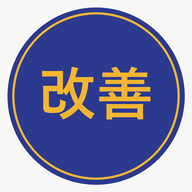
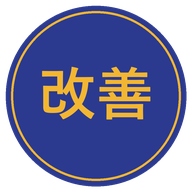
Ícone com fundo transparente de verdade
O favicon tinha os cantos opacos (cor de papel), o que aparecia como fundo branco na aba.
Agora o círculo é recortado com transparência, e o endereço ganha ?v=2 pra furar o cache.

Changed region(s): [[0.0, 0.0, 1.0, 1.0]]

diff --git a/index.html b/index.html
@@ -76,8 +76,8 @@
     }
     </script>
 
-    <link rel="icon" href="img/icone-192.png">
-    <link rel="apple-touch-icon" href="img/apple-touch-icon.png">
+    <link rel="icon" type="image/png" href="img/icone-192.png?v=2">
+    <link rel="apple-touch-icon" href="img/apple-touch-icon.png?v=2">
 
     <!-- o fundo do herói é a maior imagem da primeira tela (LCP): começa a baixar junto com o HTML -->
     <link rel="preload" as="image" href="img/cenas/pagode-lofi.webp" fetchpriority="high">
